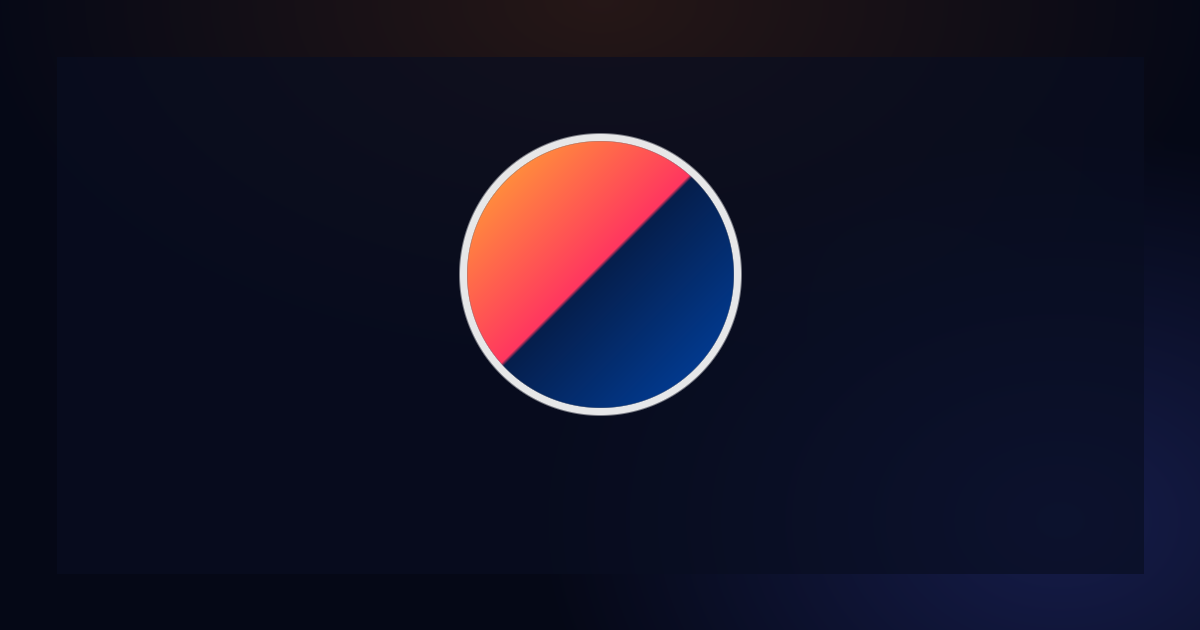
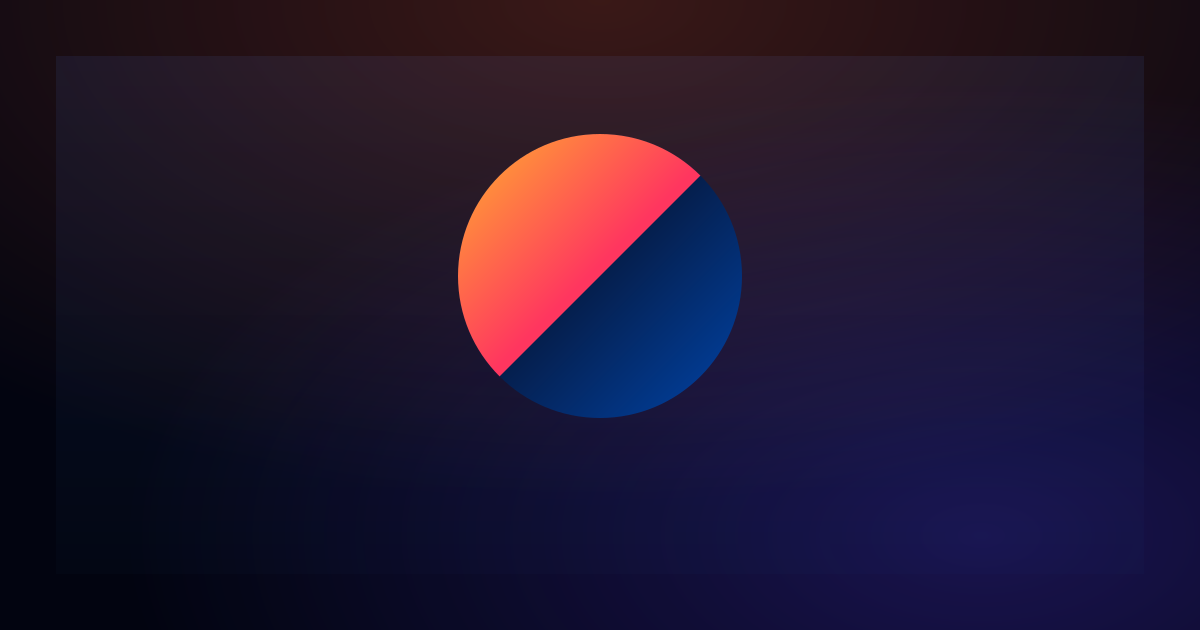
Add mobile header/menu and update styles
Introduce a responsive mobile navigation to the header (new menu button, mobile nav markup and inline JS toggle with accessibility attributes and close handlers). Update header styling to be sticky, add blurred translucent backdrop on scroll, and tweak spacing; add mobile menu styles/animations. Adjust global layout/hero sizing and site-shell overflow/margins for full-viewport behavior. Remove TrustStrip from the homepage and replace/refresh several public image assets; simplify the SVG gradient by replacing transparent stops with a polygon overlay.

diff --git a/src/styles/_components.scss b/src/styles/_components.scss
@@ -48,15 +48,39 @@
 }
 
 .site-header {
-  position: relative;
-  z-index: 5;
+  position: sticky;
+  top: 0;
+  z-index: 30;
   display: grid;
   grid-template-columns: 1fr auto 1fr;
   align-items: center;
   gap: $space-6;
-  width: min(100% - clamp($space-8, 8vw, 10rem), $content-width);
+  width: min(100% - clamp($space-8, 5.5vw, 5rem), $content-width);
   margin-inline: auto;
-  padding-block: $space-8;
+  padding-block: $space-10;
+  transition: padding 180ms ease;
+
+  &::before {
+    position: absolute;
+    inset: 0 50%;
+    z-index: -1;
+    width: 100vw;
+    background: rgba($color-midnight-900, 0.96);
+    box-shadow: inset 0 -1px 0 rgba($color-border-strong, 0.5);
+    backdrop-filter: blur(18px) saturate(125%);
+    content: "";
+    opacity: 0;
+    transform: translateX(-50%);
+    transition: opacity 180ms ease;
+  }
+
+  &.is-scrolled::before {
+    opacity: 1;
+  }
+
+  &.is-scrolled {
+    padding-block: $space-5;
+  }
 }
 
 .site-header__nav {
@@ -98,14 +122,132 @@
   justify-self: end;
 }
 
+.site-header__actions {
+  display: flex;
+  justify-self: end;
+  align-items: center;
+  gap: $space-3;
+}
+
+.site-header__menu-button {
+  display: none;
+  min-height: 2.75rem;
+  align-items: center;
+  justify-content: center;
+  border: 1px solid rgba($color-border-strong, 0.9);
+  border-radius: $radius-sm;
+  padding-inline: $space-4;
+  color: $color-text;
+  background: rgba($color-midnight-850, 0.82);
+  cursor: pointer;
+  font-size: 0.78rem;
+  font-weight: 800;
+  line-height: 1;
+  transition:
+    background 180ms ease,
+    border-color 180ms ease,
+    transform 180ms ease;
+
+  &:hover {
+    border-color: rgba($color-cyan, 0.44);
+    background: rgba($color-midnight-800, 0.92);
+    transform: translateY(-1px);
+  }
+}
+
+.site-header__menu-close {
+  display: none;
+  font-size: 1.2rem;
+  line-height: 0.7;
+}
+
+.site-header__mobile-nav {
+  position: absolute;
+  top: calc(100% - $space-2);
+  right: 0;
+  left: 0;
+  z-index: 15;
+  display: grid;
+  gap: 0;
+  border: 1px solid rgba($color-border-strong, 0.9);
+  border-radius: $radius-xl;
+  padding: $space-6;
+  background: $color-midnight-850;
+  box-shadow: 0 24px 48px rgba(0, 0, 0, 0.34);
+  transform-origin: top center;
+  animation: mobile-menu-pop 180ms ease-out;
+
+  &[hidden] {
+    display: none;
+  }
+}
+
+.site-header__mobile-link {
+  display: flex;
+  align-items: center;
+  justify-content: space-between;
+  gap: $space-4;
+  min-height: 3rem;
+  border-bottom: 1px solid rgba($color-border-strong, 0.62);
+  color: $color-text;
+  font-size: clamp(1.35rem, 6vw, 1.6rem);
+  font-weight: 900;
+  line-height: 1;
+
+  &:last-child {
+    border-bottom: 0;
+  }
+
+  span:last-child {
+    color: $color-muted;
+    font-size: 1rem;
+    font-weight: 700;
+  }
+
+  &:hover span:last-child,
+  &:focus-visible span:last-child {
+    color: $color-orange;
+  }
+}
+
+.site-header.is-mobile-menu-open {
+  z-index: 30;
+
+  .site-header__menu-label {
+    display: none;
+  }
+
+  .site-header__menu-close {
+    display: block;
+  }
+}
+
+@keyframes mobile-menu-pop {
+  from {
+    opacity: 0;
+    transform: translateY(-0.5rem) scale(0.985);
+  }
+
+  to {
+    opacity: 1;
+    transform: translateY(0) scale(1);
+  }
+}
+
+@media (prefers-reduced-motion: reduce) {
+  .site-header__mobile-nav {
+    animation: none;
+  }
+}
+
 .hero {
   position: relative;
   display: grid;
-  min-height: 35rem;
+  min-height: calc(100svh - 7.5rem);
   grid-template-columns: minmax(0, 1fr) minmax(20rem, 0.9fr);
   align-items: center;
   gap: $space-16;
-  padding-block: clamp($space-10, 7vw, $space-20);
+  padding-block: clamp($space-8, 5vw, $space-14);
 
   &::before {
     content: none;
@@ -116,6 +258,7 @@
 .hero__visual {
   position: relative;
   z-index: 1;
+  transform: translateY(clamp(-3rem, -4vh, -1.5rem));
 }
 
 .hero__title {
@@ -760,6 +903,10 @@
     display: none;
   }
 
+  .site-header__menu-button {
+    display: inline-flex;
+  }
+
   .why,
   .site-footer {
     grid-template-columns: 1fr;
@@ -798,23 +945,46 @@
 @include mq-mobile {
   .site-header {
     width: min(100% - $space-8, $content-width);
+    gap: $space-3;
     padding-block: $space-5;
   }
 
-  .site-header > .button {
-    display: none;
+  .site-header__actions {
+    gap: $space-2;
+  }
+
+  .site-header__actions .button--compact,
+  .site-header__menu-button {
+    min-height: 2.25rem;
+    padding-inline: $space-3;
+    font-size: 0.72rem;
+  }
+
+  .site-header__mobile-nav {
+    top: calc(100% - $space-1);
+    padding: $space-5;
+    border-radius: $radius-lg;
+  }
+
+  .site-header__mobile-link {
+    min-height: 2.8rem;
   }
 
   .hero {
     grid-template-columns: 1fr;
     gap: $space-16;
-    min-height: auto;
-    padding-block: $space-12 $space-12;
+    min-height: calc(100svh - 5rem);
+    padding-block: $space-8 $space-10;
   }
 
   .hero__title {
     display: grid;
     font-size: clamp(3.2rem, 18vw, 4.3rem);
+  }
+
+  .hero__content,
+  .hero__visual {
+    transform: translateY(0);
   }
 
   .hero__visual {

diff --git a/src/styles/_base.scss b/src/styles/_base.scss
@@ -61,15 +61,11 @@ select {
 }
 
 .site-shell {
-  @include container;
-
   position: relative;
-  overflow: hidden;
-  margin-block: clamp($space-4, 3vw, $space-8);
-  border: 1px solid $color-border;
-  border-radius: $radius-xl;
+  overflow: clip;
+  width: 100%;
+  margin: 0;
   background: $gradient-panel;
-  box-shadow: $shadow-panel;
 }
 
 .section-shell {
